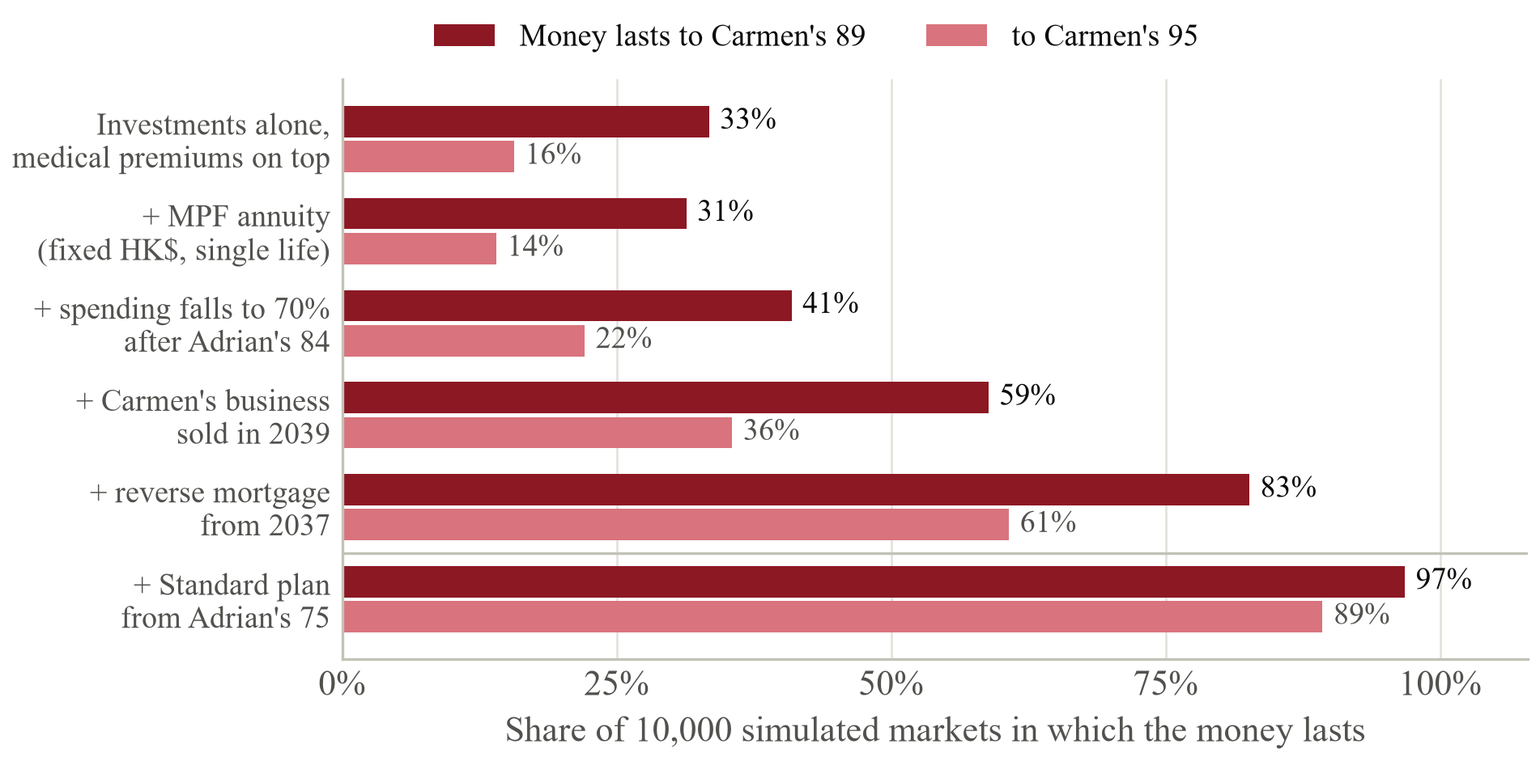
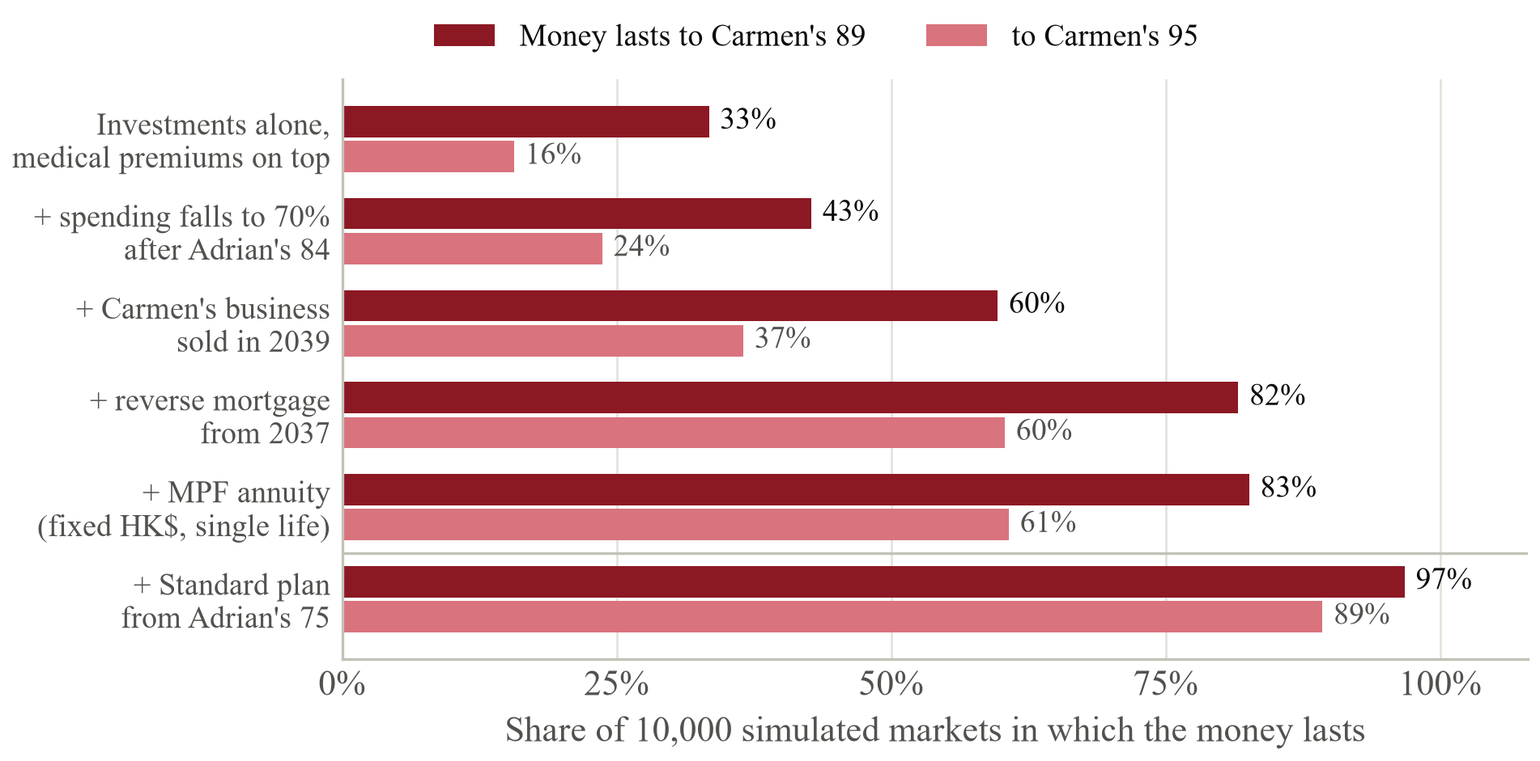
§3: annuity reframed as worst-case insurance; income floor over time; accumulation with numbers
- Decision ladder reorders so the annuity comes last: added first onto a failing plan its premium
  showed as -2 points; on the full plan it is +1. Headline 33% -> 83% unchanged.
- New model numbers: lowest spending in the worst 1% of markets on the recommended plan with and
  without the annuity (HK$546K vs HK$108K), its cost (HK$10K a year typical, HK$0.2M legacy), the
  income floor in 2039 / 2057 / 2066 (116% / 72% / 58% of essentials), the amount invested each year
  and the 2037 portfolio range.
- §3 text: separate annuity paragraph; Figure 7 in ladder order; Figure 10 shows the floor over time;
  "Saving to 2037" gives amounts and the range; hard-typed figures checked against the model.
- Roadmap 2037 effect now the home's points; executive summary lists decisions in ladder order.

diff --git a/document/section-mock-v3.html b/document/section-mock-v3.html
@@ -12,6 +12,7 @@
   .dlist .d { font: 600 13pt/1.2 var(--display); color: var(--accent-dark); }
   .dlist .w { font: 400 var(--small)/1.25 var(--serif); color: var(--ink); margin-top: .6mm; }
   .dlist .w .when { color: var(--accent); }
+  .pair .fig img { height: 47mm; }
 </style>
 </head>
 <body>
@@ -23,24 +24,26 @@
 
     <div class="annot">
       <div class="fig">
-        <div class="fig-title"><span class="fig-label">Figure 6</span>Each decision adds to the chance the money lasts</div>
+        <div class="fig-title"><span class="fig-label">Figure 6</span>What each decision adds</div>
         <img src="../figures/decision-ladder-half.png" alt="Decision ladder">
         <div class="fig-src">Source: team model, 10,000 simulations.</div>
       </div>
       <div>
         <div class="fig-title"><span class="fig-label">Figure 7</span>When each decision is taken</div>
         <ol class="dlist">
-          <li><div class="d">Annuitise the MPF</div><div class="w"><span class="when">2037–39</span> · at each retirement, through the HKMC Annuity Plan</div></li>
-          <li><div class="d">Spend less after the first death</div><div class="w"><span class="when">from 2056</span> · written into the family's spending policy</div></li>
-          <li><div class="d">Sell the business in stages</div><div class="w"><span class="when">2035–39</span> · buy-sell agreement now; managers in place by Carmen's 58</div></li>
-          <li><div class="d">Release the home's value</div><div class="w"><span class="when">2037</span> · powers of attorney signed; reverse mortgage or downsizing (§9)</div></li>
+          <li><div class="d">Spend less after the first death</div><div class="w"><span class="when">from 2056</span> · in the family's spending policy</div></li>
+          <li><div class="d">Sell the business in stages</div><div class="w"><span class="when">2035–39</span> · buy-sell agreement signed now</div></li>
+          <li><div class="d">Release the home's value</div><div class="w"><span class="when">2037</span> · reverse mortgage or downsizing (§9)</div></li>
+          <li><div class="d">Annuitise the MPF</div><div class="w"><span class="when">2037–39</span> · HKMC, at each retirement</div></li>
         </ol>
       </div>
     </div>
 
-    <p><span class="lead-in">Why these four, and not more investment risk.</span> By 2037 the parents' investments reach about {{portfolio_2037_today}} in today's money, roughly what a 2% real return needs to pay HK$780K a year ({{need_2037}}); what breaks the plan is the medical premiums that figure leaves out. More equity would breach Adrian's low-to-medium risk profile, and a 7% equity return instead of 6% only reaches {{eq7_89}}. The four decisions use assets the family already owns and stay open until their dates. Their costs are deliberate: less of the home passes to Ryan and Chloe, and an annuity cannot be reversed. It is longevity insurance, neutral at the case's life expectancies but {{annuity_longlife_pts}} points if Adrian lives to 95, so only the MPF is annuitised. Without a business sale the plan still reaches {{biz_not_sold_89}}.</p>
+    <p><span class="lead-in">Why these four, and not more investment risk.</span> By 2037 the parents' investments reach about {{portfolio_2037_today}} in today's money, what a 2% real return needs for HK$780K a year; what breaks the plan is the medical premiums that figure leaves out. More equity would breach Adrian's low-to-medium risk profile, and even a 7% equity return only reaches {{eq7_89}}. The decisions use assets the family already owns and stay open until their dates; their cost is a smaller legacy. Without the business sale it still reaches {{biz_not_sold_89}}.</p>
 
-    <p><span class="lead-in">Saving to 2037.</span> The {{surplus}} surplus, less the new cover in §8, is invested each year, with new money going to whichever sleeve is below target so rebalancing needs few sales. Each parent routes HK$60K of it through tax-deductible voluntary MPF; the tax saved is not counted in the model.</p>
+    <p><span class="lead-in">The annuity is insurance, not a return.</span> It barely moves the odds ({{step_annuity}} point), but in the worst 1% of markets the money would otherwise run out, leaving {{ann_w1_without}} a year; with it, spending never falls below {{ann_w1_with}} (Figure 11 rules). It costs about {{ann_typ_cost}} a year of typical spending and {{ann_legacy_cost}} of legacy and cannot be reversed, so only the MPF is annuitised.</p>
+
+    <p><span class="lead-in">Saving to 2037.</span> After the new cover, about {{surplus_invest}} a year is invested: HK$60K each into tax-deductible voluntary MPF, the rest to whichever sleeve is below target, so rebalancing needs few sales. In 80% of markets the portfolio holds {{port2037_p10}} to {{port2037_p90}} in today's money when Adrian retires.</p>
 
     <h3>Medical premiums: the cost the budget leaves out</h3>
     <div class="pair">
@@ -63,24 +66,25 @@
 <section class="page">
   <div class="content">
     <div class="kicker"><span class="n">03</span>Retirement planning · continued</div>
-    <p>The HK$780K target predates individual cover. From retirement the parents pay their own premiums, which rise with medical inflation (10% in 2027, easing to 6% by 2036) and with age (about 4.6% a year from 65 to 80). For both parents the line reaches HK$375K a year in today's money by 2056, close to half the budget (Figure 8). <span class="lead-in">Buy now, while healthy:</span> cover bought at 54 and 49 is guaranteed renewable to 100, while cover bought at retirement may exclude conditions that have appeared by then (§8). <span class="lead-in">Review the tier at 75:</span> the Standard plan costs about a third as much, and switching at Adrian's 75 lifts the plan from {{ladder_5_89}} to {{switch_89}}, at the price of lower limits and fewer private-hospital choices, a choice to make with their health in view. <span class="lead-in">Use the public floor:</span> Hospital Authority fees are capped at HK$10,000 a year per patient; critical-illness cover pays for what the cap excludes.</p>
+    <p>The HK$780K target predates individual cover. From retirement the parents pay their own premiums, which rise with medical inflation (10% in 2027, easing to 6% by 2036) and with age (about 4.6% a year from 65 to 80), reaching HK$375K a year in today's money by 2056, close to half the budget (Figure 8). <span class="lead-in">Buy now, while healthy:</span> cover bought at 54 and 49 is renewable to 100; cover bought later may exclude conditions found by then (§8). <span class="lead-in">Review the tier at 75:</span> the Standard plan costs about a third as much, and switching at Adrian's 75 lifts the plan from {{ladder_5_89}} to {{switch_89}}, at the price of lower limits and fewer private-hospital choices, a choice to make with their health in view. <span class="lead-in">Use the public floor:</span> Hospital Authority fees are capped at HK$10,000 a year per patient; critical-illness cover pays for what the cap excludes.</p>
 
     <h3>An income floor: essentials paid for life</h3>
-    <p>Using the spending pattern of Hong Kong's top-quartile households (Household Expenditure Survey 2024/25), essentials are about 40% of the HK$780K: HK$312K a year today, about HK$430K by 2039. Converting the parents' MPF into HKMC life annuities at each retirement pays HK$268K a year from 2039, fixed: {{annuity_adrian}} for Adrian until his death and {{annuity_carmen}} for Carmen for life (Figure 10). A fixed payment loses about 45% of its real value over 24 years, so the portfolio still matters.</p>
+    <p>On the spending pattern of Hong Kong's top-quartile households (2024/25 survey), essentials are about 40% of spending: HK$312K a year today. The MPF annuities pay {{annuity_adrian}} for Adrian until his death and {{annuity_carmen}} for Carmen for life, fixed; with the reverse mortgage they cover every essential in 2039. It then weakens: Adrian's annuity stops at his death and fixed payments lose value, so by Carmen's 89 it covers {{floor_2066_pct}} of essentials (Figure 10). The portfolio covers the rest, protected by the rules below.</p>
     <div class="fig">
-      <div class="fig-title"><span class="fig-label">Figure 10</span>The MPF annuity covers most of the floor; the home covers the rest</div>
+      <div class="fig-title"><span class="fig-label">Figure 10</span>Guaranteed income covers every essential at first, and less as prices rise</div>
       <table class="t dense">
-        <thead><tr><th>Income floor at 2039</th><th class="n">HK$ a year</th><th class="n">Share of floor</th></tr></thead>
+        <thead><tr><th>HK$ a year, as paid</th><th class="n">2039</th><th class="n">2057, Carmen alone</th><th class="n">2066, Carmen 89</th></tr></thead>
         <tbody>
-          <tr><td>Essentials (40% of HK$780K, inflated)</td><td class="n">≈430,000</td><td class="n">100%</td></tr>
-          <tr><td>MPF annuities (HKMC, fixed, single life)</td><td class="n">268,000</td><td class="n">62%</td></tr>
-          <tr class="total"><td>Plus reverse mortgage from 2037 (§9)</td><td class="n">498,000</td><td class="n">116%</td></tr>
+          <tr><td>Essentials (40% of spending)</td><td class="n">{{floor_2039_ess}}</td><td class="n">{{floor_2057_ess}}</td><td class="n">{{floor_2066_ess}}</td></tr>
+          <tr><td>MPF annuities (fixed, single life)</td><td class="n">{{floor_2039_ann}}</td><td class="n">{{floor_2057_ann}}</td><td class="n">{{floor_2066_ann}}</td></tr>
+          <tr><td>Reverse mortgage (§9)</td><td class="n">HK$230K</td><td class="n">HK$230K</td><td class="n">HK$230K</td></tr>
+          <tr class="total"><td>Share of essentials covered</td><td class="n">{{floor_2039_pct}}</td><td class="n">{{floor_2057_pct}}</td><td class="n">{{floor_2066_pct}}</td></tr>
         </tbody>
       </table>
     </div>
 
     <h3>Drawdown: rules agreed in advance</h3>
-    <p>Two to three years of spending sits in cash and short bonds, refilled in good years, so a market fall never forces a sale. Discretionary spending follows the Guyton–Klinger guardrails, triggered by markets rather than by the planned rise in premiums: no inflation increase after a year of negative returns; a 10% cut if the withdrawal rate rises more than 20% above its starting level; a 10% raise if it falls 20% below. Figure 11 shows what they are worth.</p>
+    <p>Two to three years of spending sits in cash and short bonds, refilled in good years, so a market fall never forces a sale. Discretionary spending follows the Guyton–Klinger guardrails, triggered by markets rather than by the planned rise in premiums: no inflation increase after a year of negative returns; a 10% cut if the withdrawal rate rises more than 20% above its starting level; a 10% raise if it falls 20% below.</p>
 
     <div class="fig">
       <div class="fig-title"><span class="fig-label">Figure 11</span>The tier review protects the money; the guardrails protect the worst case</div>
@@ -96,7 +100,7 @@
     </div>
 
     <h3>What the guardrails cost, and what they buy</h3>
-    <p>The medical-tier review does most of the work: with it, the typical family spends its full HK$780K every year. The guardrails cost the typical family about {{guard_cost}} a year, roughly one overseas trip, taken from discretionary spending; essentials are never cut. What they buy is the worst case: without them, one market path in twenty ends on guaranteed income alone, about {{fixswitch_worst5}} a year by Carmen's 90s; with them, spending never falls below about {{guardswitch_worst5}}. Any shortfall shows up years ahead in the annual review, with pre-agreed next steps: the tier review, then selling the home.</p>
+    <p>The tier review does most of the work: with it, the typical family spends its full HK$780K. The guardrails cost the typical family about {{guard_cost}} a year, taken from discretionary spending; essentials are never cut. What they buy is the worst case: without them, one path in twenty ends on guaranteed income alone, about {{fixswitch_worst5}} a year; with them, spending never falls below about {{guardswitch_worst5}}. A shortfall shows years ahead in the annual review, with agreed next steps: the tier review, then selling the home.</p>
     <div class="spacer"></div>
   </div>
   <div class="page-foot"><span>Built to Last · The Wong family</span><span>5</span></div>

diff --git a/document/template-v2.html b/document/template-v2.html
@@ -94,7 +94,7 @@
         <h3>Protect what has been built</h3>
         <p>Close the disability and critical-illness gaps, and sign wills, a guardian nomination and powers of attorney this quarter (§8, §9).</p>
         <h3>Turn assets into lifelong income</h3>
-        <p>On their investments alone, the money lasts to Carmen's 89 in {{ladder_1_89}} of 10,000 simulated markets. An MPF annuity, lower spending after the first death, a staged sale of Carmen's business and a planned use of the home raise it to {{ladder_5_89}}; moving to the Standard medical plan at 75 raises it to {{switch_89}} (Figure 6).</p>
+        <p>On their investments alone, the money lasts to Carmen's 89 in {{ladder_1_89}} of 10,000 simulated markets. Lower spending after the first death, a staged sale of Carmen's business, a planned use of the home and an MPF annuity raise it to {{ladder_5_89}}; moving to the Standard medical plan at 75 raises it to {{switch_89}} (Figure 6).</p>
         <h3>Give every voice a place</h3>
         <p>Adrian keeps a 40/60 portfolio; ESG rises from 11% to 25% of investable assets, the top of the family's 20–25% target, in SFC-listed funds only; Ryan keeps his digital assets on a glide path; Chloe chooses her university freely (§4–§7).</p>
         <h3>Five recommendations</h3>

diff --git a/document/pages-10-15.html b/document/pages-10-15.html
@@ -121,7 +121,7 @@
           <tr><td>Every year</td><td>Rebalance by bands; review mortgage, cover, ESG list</td><td>Adviser</td><td>—</td></tr>
           <tr class="group"><td colspan="4">Into retirement and legacy</td></tr>
           <tr><td>2034–36</td><td>Adrian to 35% equity; business managers in place</td><td>Parents</td><td>—</td></tr>
-          <tr><td>2037</td><td>Clear the mortgage; Adrian's annuity; release the home</td><td>Parents</td><td>{{ladder_4_89}} → {{ladder_5_89}}</td></tr>
+          <tr><td>2037</td><td>Clear the mortgage; Adrian's annuity; release the home</td><td>Parents</td><td>Home: {{step_home}} points</td></tr>
           <tr><td>2039</td><td>Carmen's annuity; business sold; guardrails begin</td><td>Carmen</td><td>Sale: {{step_business}} points</td></tr>
           <tr><td>2047</td><td>Adrian 75: review the medical tier</td><td>Parents</td><td>{{ladder_5_89}} → {{switch_89}}</td></tr>
         </tbody>

diff --git a/model/run_model.py b/model/run_model.py
@@ -217,14 +217,17 @@ MIXES = {"1. All-Treasury ladder":       (0.00, 0.02, R_LAD),
 MIX2 = MIXES["2. 40/60 equity / ladder"]
 
 def ladder_steps():
-    """The decision ladder: each step adds one decision to the one before."""
+    """The decision ladder: each step adds one decision to the ones before. The annuity comes last: it is
+    insurance for the worst markets and a long life, and added first (onto a failing plan) its premium shows as a
+    loss that it is not. Its value is reported separately (ann_* numbers)."""
     return [
         ("Portfolio alone; Flexi premiums on top of the 780,000", dict(annuity=False, med=FLEXI)),
-        ("+ MPF annuitised (HKMC, fixed HK$, single life)",         dict(annuity=True,  med=FLEXI)),
         (f"+ spending falls to {SURV:.0%} after Adrian's {ALE - 1972}",
-                                                                 dict(annuity=True,  med=FLEXI, surv=SURV)),
-        (f"+ Carmen's business sold ({BIZ/1e6:.1f}M in {BIZ_Y})",  dict(annuity=True,  med=FLEXI, surv=SURV, biz=BIZ)),
+                                                                 dict(annuity=False, med=FLEXI, surv=SURV)),
+        (f"+ Carmen's business sold ({BIZ/1e6:.1f}M in {BIZ_Y})",  dict(annuity=False, med=FLEXI, surv=SURV, biz=BIZ)),
         (f"+ reverse mortgage ({RMP/1e3:.0f}K a year from {RMP_Y})",
+                                                                 dict(annuity=False, med=FLEXI, surv=SURV, biz=BIZ, rmp=RMP)),
+        ("+ MPF annuitised (HKMC, fixed HK$, single life)",
                                                                  dict(annuity=True,  med=FLEXI, surv=SURV, biz=BIZ, rmp=RMP)),
     ]
 
@@ -326,8 +329,8 @@ def export_numbers():
     lad = [(s89(kw), s95(kw)) for _, kw in ladder_steps()]
     for i, (a, b) in enumerate(lad, 1):
         N[f"ladder_{i}_89"], N[f"ladder_{i}_95"] = P(a), P(b)
-    N["step_annuity"], N["step_survivor"] = pts(lad[0][0], lad[1][0]), pts(lad[1][0], lad[2][0])
-    N["step_business"], N["step_home"] = pts(lad[2][0], lad[3][0]), pts(lad[3][0], lad[4][0])
+    N["step_survivor"], N["step_business"] = pts(lad[0][0], lad[1][0]), pts(lad[1][0], lad[2][0])
+    N["step_home"], N["step_annuity"] = pts(lad[2][0], lad[3][0]), pts(lad[3][0], lad[4][0])
     sw89, sw95 = s89(full, med=SWITCH), s95(full, med=SWITCH)
     N["switch_89"], N["switch_95"], N["switch_pts"] = P(sw89), P(sw95), pts(lad[4][0], sw89)
     # one change at a time to the full plan
@@ -372,6 +375,27 @@ def export_numbers():
     N["guaranteed_income_today"] = K((ann_income(2062, True) + RMP)/(1 + CPI)**(2062 - BY))
     N["guaranteed_income_nominal"] = K(ann_income(2062, True) + RMP)
     N["annuity_adrian"], N["annuity_carmen"] = K(ANN_A_INC), K(ANN_C_INC)
+    # the annuity is insurance for the worst markets: on the recommended plan, the lowest year of spending in the
+    # worst 1% of paths (to Carmen's 95), with and without it, and what it costs the typical family
+    rec = {**full, "med": SWITCH, "guard": True}
+    w, wo = sim(*MIX2, C95, detail=True, **rec), sim(*MIX2, C95, detail=True, **{**rec, "annuity": False})
+    N["ann_w1_with"] = K(np.percentile(w["levels"].min(0), 1)*SPEND)
+    N["ann_w1_without"] = K(np.percentile(wo["levels"].min(0), 1)*SPEND)
+    N["ann_typ_cost"] = K((np.median(wo["levels"].mean(0)) - np.median(w["levels"].mean(0)))*SPEND)
+    l89w, l89wo = sim(*MIX2, C89, detail=True, **rec), sim(*MIX2, C89, detail=True, **{**rec, "annuity": False})
+    N["ann_legacy_cost"] = Mn((np.median(l89wo["end_pot"]) - np.median(l89w["end_pot"]))/(1 + CPI)**(C89 - BY))
+    # the income floor over time (nominal): essentials are 40% of spending (70% of it after Adrian's death)
+    for y in (RETC, ALE + 1, C89):
+        ess = SPEND*FLOOR_SHARE*(SURV if y > ALE else 1)*(1 + CPI)**(y - BY)
+        inc = ann_income(y, True)
+        N[f"floor_{y}_ess"], N[f"floor_{y}_ann"] = K(ess), K(inc)
+        N[f"floor_{y}_pct"] = P((inc + RMP)/ess)
+    # accumulation: what is invested each year, and the range of the portfolio when Adrian retires
+    N["surplus_invest"] = K(SURPLUS - PREM)
+    track = sim(*MIX2, C89, paths=True, **full)[3]
+    i = RETA - 1 - BY                                   # end of 2036 = the day Adrian retires
+    real = track[i] / (1 + CPI)**(i + 1)
+    N["port2037_p10"], N["port2037_p90"] = Mn(np.percentile(real, 10)), Mn(np.percentile(real, 90))
     # the annuity is longevity insurance: its value shows when Adrian outlives his life expectancy
     keep = ALE; ALE = 2067
     try:

diff --git a/model/make_charts.py b/model/make_charts.py
@@ -49,9 +49,9 @@ FULL = M.full_plan()
 
 # 1 ---------- decision ladder ----------
 steps = M.ladder_steps() + [(f"+ Standard plan from {M.SWITCH_Y}", {**FULL, "med": M.SWITCH})]
-short = ["Investments alone,\nmedical premiums on top", "+ MPF annuity\n(fixed HK$, single life)",
+short = ["Investments alone,\nmedical premiums on top",
          "+ spending falls to 70%\nafter Adrian's 84", "+ Carmen's business\nsold in 2039",
-         "+ reverse mortgage\nfrom 2037", "+ Standard plan\nfrom Adrian's 75"]
+         "+ reverse mortgage\nfrom 2037", "+ MPF annuity\n(fixed HK$, single life)", "+ Standard plan\nfrom Adrian's 75"]
 r89 = [M.sim(*MIX2, C89, **kw)[0] for _, kw in steps]
 r95 = [M.sim(*MIX2, C95, **kw)[0] for _, kw in steps]
 fig, ax = plt.subplots(figsize=(W, 3.1))
@@ -238,8 +238,8 @@ DATA.append(("property-options.png: annuity, survivor spending and business sale
 HW = 95 / 25.4                               # inches
 with plt.rc_context({"font.size": 10.5}):
     # 1h decision ladder
-    lab = ["Investments alone", "+ MPF annuity", "+ lower spending\nafter first death", "+ business sale",
-           "+ home released", "+ Standard plan\nfrom 75"]
+    lab = ["Investments alone", "+ lower spending\nafter first death", "+ business sale",
+           "+ home released", "+ MPF annuity", "+ Standard plan\nfrom 75"]
     fig, ax = plt.subplots(figsize=(HW, 3.2))
     y = np.arange(len(lab))[::-1]; h = 0.36
     ax.barh(y + h/2 + 0.02, r89, h, color=ACC_D, label="to Carmen's 89")

diff --git a/document/manuscript.md b/document/manuscript.md
@@ -123,8 +123,8 @@ To read them filled in, run `python document/fill.py document/manuscript.md` and
 and powers of attorney this quarter (§8, §9).
 
 **Turn assets into lifelong income.** On their investments alone, the money lasts to Carmen's 89 in {{ladder_1_89}} of 10,000
-simulated markets. An MPF annuity, lower spending after the first death, a staged sale of Carmen's business and a
-planned use of the home raise it to {{ladder_5_89}}; moving to the Standard medical plan at 75 raises it to {{switch_89}} (Figure 6).
+simulated markets. Lower spending after the first death, a staged sale of Carmen's business, a planned use of the home
+and an MPF annuity raise it to {{ladder_5_89}}; moving to the Standard medical plan at 75 raises it to {{switch_89}} (Figure 6).
 
 **Give every voice a place.** Adrian keeps a 40/60 portfolio; ESG rises from 11% to 25% of investable assets, the top of
 the family's 20–25% target, in SFC-listed funds only; Ryan keeps his digital assets on a glide path; Chloe chooses her university freely (§4–§7).
@@ -197,20 +197,33 @@ saves a further HK$18K `[CHECK: filing status]`. The reserve falls to twelve mon
 **Status:** final. Source of truth: `document/section-mock-v3.html` (pages 1–2). Owner: Pete; numbers Fahtai.
 **Case asks for:** on track at 65/62? accumulation, drawdown and liquidity strategies.
 
-Figures on these pages: **6** decision ladder (`decision-ladder-half.png`) · **7** when each decision is taken (table) ·
-**8** medical premiums (`medical-premiums-half.png`) · **9** portfolio fan chart (`fan-chart-half.png`, labelled
-"annuity bought, mortgage cleared" at 2037) · **10** income floor (table) · **11** tier review and guardrails (table: fixed
-spending {{fixflex_89}} → tier review {{fixswitch_89}} → guardrails {{guardswitch_89}}; typical spending {{fixswitch_typical}} → {{guardswitch_typical}}; worst-5% lowest
-year {{fixswitch_worst5}} → {{guardswitch_worst5}}).
+Figures on these pages: **6** decision ladder (`decision-ladder-half.png`; order: investments alone {{ladder_1_89}} → lower
+spending after the first death → business sale → home released → MPF annuity {{ladder_5_89}} → Standard plan {{switch_89}}) · **7** when each
+decision is taken (same order; one line each) · **8** medical premiums · **9** portfolio fan chart ("annuity bought,
+mortgage cleared" at 2037) · **10** the income floor in 2039, 2057 and 2066 · **11** tier review and guardrails.
 
-Paragraphs, in order: *Why these four, and not more investment risk* (by 2037 the portfolio is {{portfolio_2037_today}} in today's money,
-about what a 2% real return needs for HK$780K a year, {{need_2037}}; the medical premiums break the plan; the annuity is longevity
-insurance, neutral at the case's life expectancies but {{annuity_longlife_pts}} points if Adrian lives to 95, so only the MPF is
-annuitised) · *Saving to 2037* (the {{surplus}} surplus less new cover is invested each year, new money to whichever sleeve is below
-target; HK$60K each through tax-deductible voluntary MPF, the tax saved not counted) · *Medical premiums* (buy now; review
-the tier at 75 `[CHECK: that the insurer allows a move to its Standard plan without new underwriting]`; the public
-floor) · *An income floor* (HK$268K a year from 2039: {{annuity_adrian}} for Adrian until his death, {{annuity_carmen}} for Carmen for life; single-life,
-fixed) · *Drawdown* · *What the guardrails cost, and what they buy* ({{guard_cost}} a year for the typical family; pre-agreed steps).
+**Why the annuity comes last in Figure 6 (decided 30 Sep, from data).** Added first, onto a plan that is failing, its
+premium showed as −2 points. Added to the full plan it is {{step_annuity}}. Its job is the worst case: on the recommended plan, in
+the worst 1% of markets, spending never falls below {{ann_w1_with}} with it; without it the money runs out and spending falls to
+{{ann_w1_without}}. Cost: about {{ann_typ_cost}} a year of typical spending and {{ann_legacy_cost}} of legacy. It also holds if Adrian lives to 95.
+Annuitising only one parent was tested and is weaker in the worst case (Carmen only: worst 1% HK$123K if Adrian lives to
+95).
+
+Paragraphs, in order:
+- *Why these four, and not more investment risk:* portfolio {{portfolio_2037_today}} in today's money by 2037, what a 2% real
+  return needs for HK$780K; medical premiums break the plan; more equity breaches Adrian's profile and a 7% return only
+  reaches {{eq7_89}}; without the business sale {{biz_not_sold_89}}.
+- *The annuity is insurance, not a return:* {{step_annuity}} point; worst 1% {{ann_w1_with}} vs {{ann_w1_without}}; cost {{ann_typ_cost}} a year and {{ann_legacy_cost}}.
+- *Saving to 2037:* about {{surplus_invest}} a year invested after the new cover; HK$60K each to tax-deductible voluntary MPF;
+  the rest to the underweight sleeve; in 80% of markets the portfolio holds {{port2037_p10}} to {{port2037_p90}} in today's money at 2037.
+- *Medical premiums:* buy now; review the tier at 75 `[CHECK: that the insurer allows a move to its Standard plan
+  without new underwriting]`; the public floor.
+- *An income floor:* {{annuity_adrian}} for Adrian until his death, {{annuity_carmen}} for Carmen for life, plus the reverse mortgage:
+  {{floor_2039_pct}} of essentials in 2039, {{floor_2057_pct}} in 2057 when Carmen is alone, {{floor_2066_pct}} at Carmen's 89. The portfolio covers the rest.
+- *Drawdown* · *What the guardrails cost, and what they buy* ({{guard_cost}} a year for the typical family).
+
+Hard-typed figures checked against the model on 30 Sep: HK$375K of premiums by 2056 (Flexi, today's money); premiums
+rise ≈4.6% a year from 65 to 80; Standard ≈0.30 of Flexi at 75; essentials HK$312K today.
 
 The model clears the ≈HK$0.46M of mortgage still owed in 2037 from the portfolio (§9); every §3 number includes it.
 
@@ -580,7 +593,7 @@ mission to Chloe's interest in design; donations are tax-deductible.
 | Every year | Rebalance by bands; review mortgage, cover, ESG list | Adviser | — |
 | ***Into retirement and legacy*** | | | |
 | 2034–36 | Adrian to 35% equity; business managers in place | Parents | — |
-| 2037 | Clear the mortgage; Adrian's annuity; release the home | Parents | {{ladder_4_89}} → {{ladder_5_89}} |
+| 2037 | Clear the mortgage; Adrian's annuity; release the home | Parents | Home: {{step_home}} points |
 | 2039 | Carmen's annuity; business sold; guardrails begin | Carmen | Sale: {{step_business}} points |
 | 2047 | Adrian 75: review the medical tier | Parents | {{ladder_5_89}} → {{switch_89}} |
 

diff --git a/model/README.md b/model/README.md
@@ -74,6 +74,12 @@ still read 0 and every pre-existing input is unchanged.
 17. **Stresses on the recommended plan (30 Sep).** `export_numbers()` adds `rec_*`: each stress re-run with the
    Standard plan from 2047 and the guardrails (`SWITCH_ST` is the stress medical path with the switch). The half
    stress chart now compares fixed spending with the recommended plan. §11 quotes both.
+18. **Annuity moved to the end of the decision ladder (30 Sep).** Added first, onto a failing plan, its premium
+   showed as −2 points; added to the full plan it is +1. `ladder_steps()` now runs survivor spending → business sale →
+   home → annuity, so `ladder_2..4` changed meaning (the headline 33% → 83% did not). New numbers: `ann_w1_with/without`
+   (lowest year in the worst 1% of paths on the recommended plan: HK$546K with the annuity, HK$108K without),
+   `ann_typ_cost`, `ann_legacy_cost`, the income floor by year (`floor_*`), `surplus_invest` and the 2037 range
+   (`port2037_p10/p90`).
 
 **Still hard-coded in `run_model.py`** (left alone, worth moving to `Inputs` later): the 3% discount rate for
 the education reserve, and the 2% real rate and 29 years in the retirement-need formula.

diff --git a/figures/figure-data.md b/figures/figure-data.md
@@ -8,10 +8,10 @@ Every chart's numbers, for captions, text and checking.
 | Step | to 89 | to 95 |
 |---|---|---|
 | Portfolio alone; Flexi premiums on top of the 780,000 | 33% | 16% |
-| + MPF annuitised (HKMC, fixed HK$, single life) | 31% | 14% |
-| + spending falls to 70% after Adrian's 84 | 41% | 22% |
-| + Carmen's business sold (3.0M in 2039) | 59% | 36% |
-| + reverse mortgage (230K a year from 2037) | 83% | 61% |
+| + spending falls to 70% after Adrian's 84 | 43% | 24% |
+| + Carmen's business sold (3.0M in 2039) | 60% | 37% |
+| + reverse mortgage (230K a year from 2037) | 82% | 60% |
+| + MPF annuitised (HKMC, fixed HK$, single life) | 83% | 61% |
 | + Standard plan from 2047 | 97% | 89% |
 
 ## fan-chart.png: portfolio percentiles, full plan, HK$M today's money
